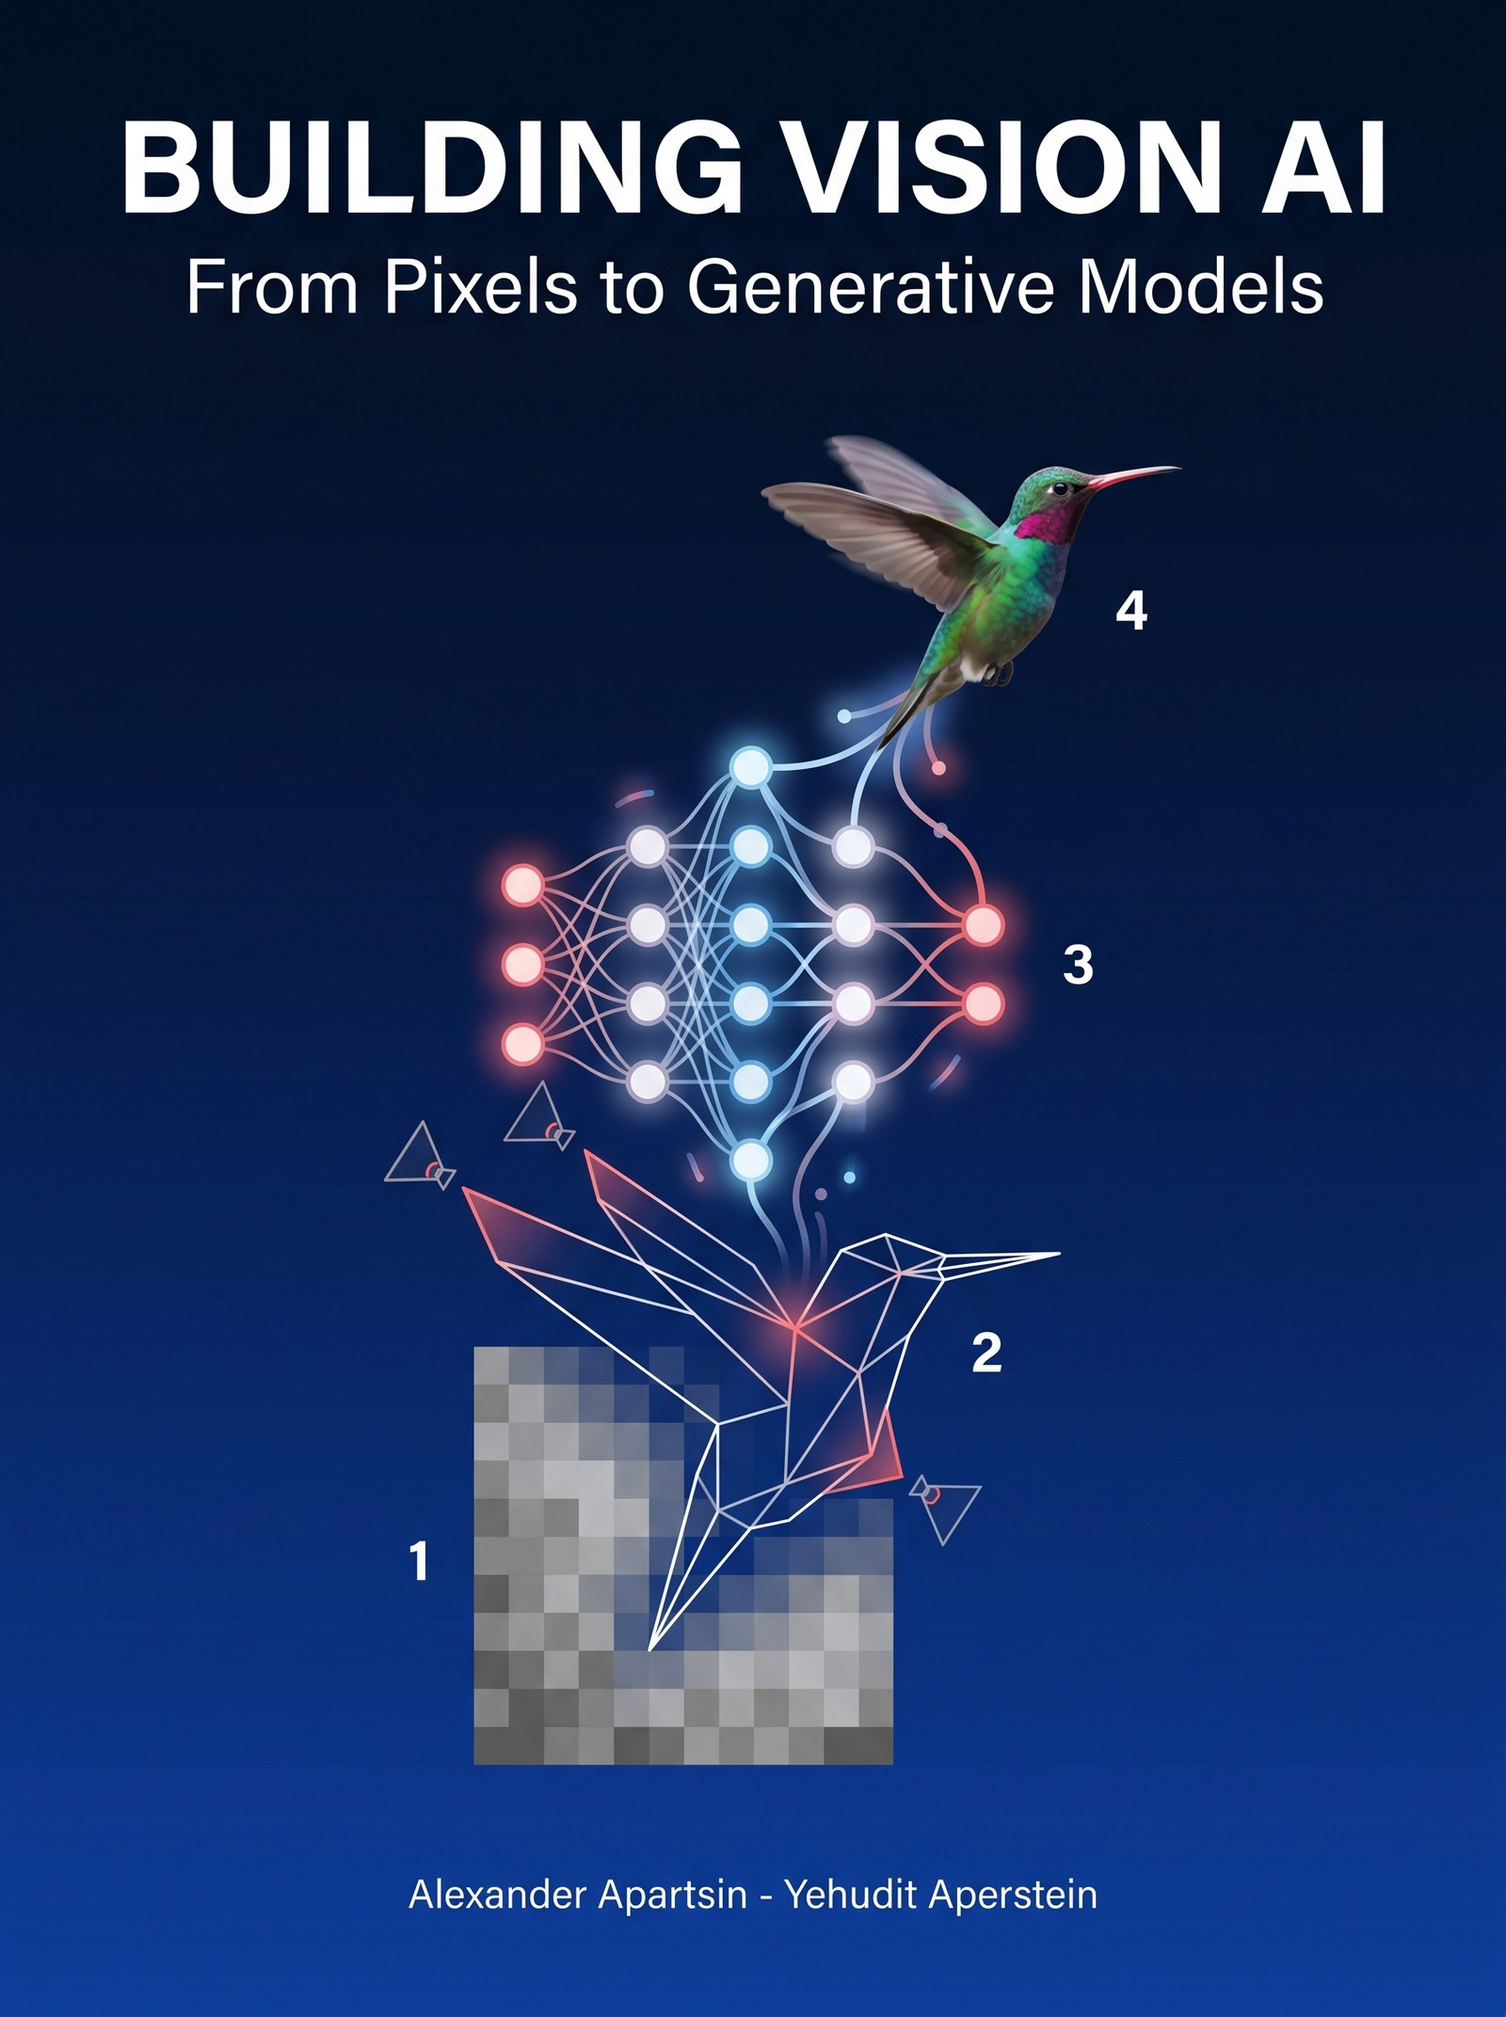
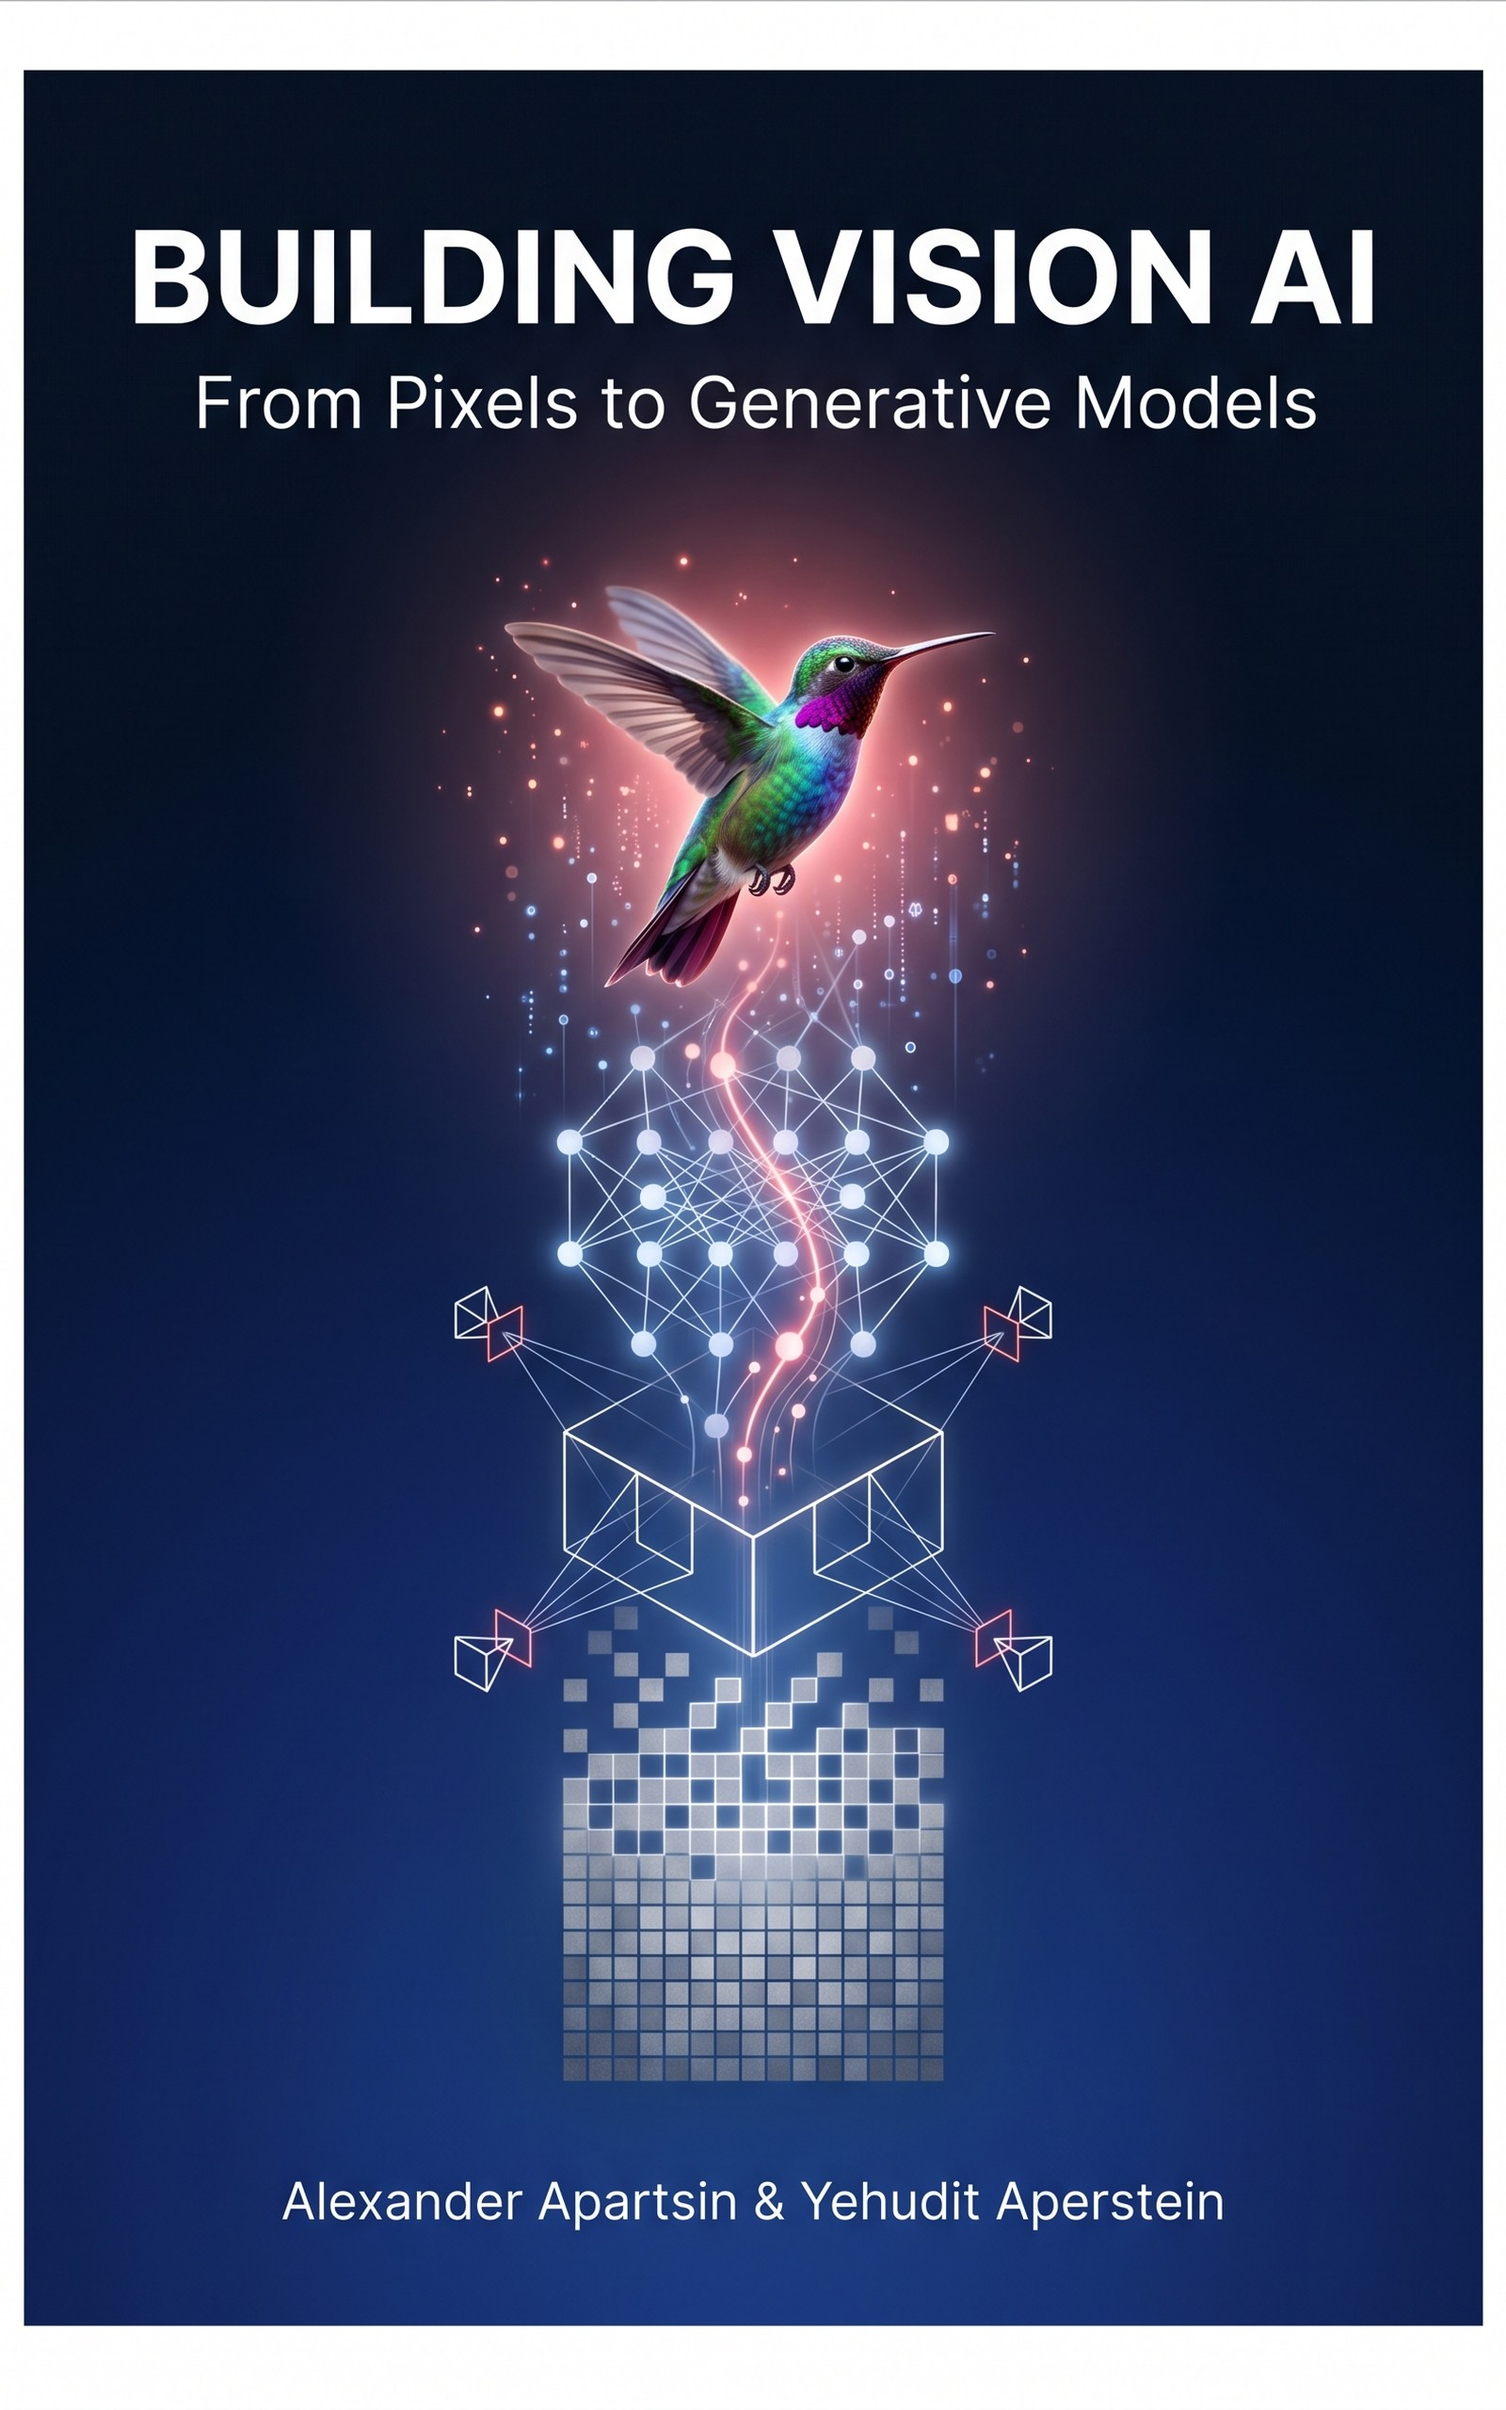
KDP cover: regenerate to ideal 1600x2560 (1.6:1, 300dpi); sync web cover
- cover_kdp.jpg now exactly 1600x2560 baseline RGB JPEG, KDP-ideal ratio/resolution
  (was 1600x2143 / 1.34:1). Same concept (pixels -> wireframe -> neural net ->
  hummingbird) regenerated at portrait book-cover ratio.
- Synced the site hero cover (images/book-cover.jpg) + og:image to match; updated
  cover img dimensions on the cover page and the cover spec in the KDP docs.
Canary clean.

diff --git a/index.html b/index.html
@@ -389,7 +389,7 @@ body.cover-page footer.cover-footer a:hover { color: #aedcf5; }
 
 <header class="hero">
 <span class="edition-pill">First Edition &#183; 2026</span>
-<div class="cover-image-wrapper"><img alt="Book cover: a pixel grid rising through wireframe geometry and a neural network into a photorealistic hummingbird, with the title Building Vision AI, From Pixels to Generative Models" class="cover-image" height="1200" src="images/book-cover.jpg" width="896"/></div>
+<div class="cover-image-wrapper"><img alt="Book cover: a pixel grid rising through wireframe geometry and a neural network into a photorealistic hummingbird, with the title Building Vision AI, From Pixels to Generative Models" class="cover-image" height="2560" src="images/book-cover.jpg" width="1600"/></div>
 <h1 class="cover-title">Building Vision AI
 <span class="title-arc">From Pixels to Generative Models</span></h1>
 <p class="cover-subtitle">A practitioner's guide to image processing, classical computer vision, deep learning, and generative vision models.</p>

diff --git a/KDP/KDP_SUBMISSION.md b/KDP/KDP_SUBMISSION.md
@@ -8,7 +8,7 @@ Structured metadata: `KDP/metadata/metadata.yaml`. Validated deliverables below.
 | File | What | Status |
 |---|---|---|
 | `KDP/output/building-vision-ai.epub` | Reflowable EPUB 3 manuscript (26.4 MB, 277 chapters, 244 illustrations, server-rendered KaTeX math) | **epubcheck 5.3.0: 0 fatals / 0 errors / 0 warnings** |
-| `KDP/cover/cover_kdp.jpg` | Ebook cover, 1600x2143 baseline JPEG | OK (see cover note) |
+| `KDP/cover/cover_kdp.jpg` | Ebook cover, 1600x2560 baseline JPEG | OK (see cover note) |
 
 Rebuild the EPUB any time: `HTML2EPUB_KATEX_OUTPUT=html python -m html2epub build .`
 Re-validate: run epubcheck 5.3.0 (Java) on the .epub.
@@ -53,10 +53,9 @@ Re-validate: run epubcheck 5.3.0 (Java) on the .epub.
 
 ## Cover note
 
-KDP's ideal ebook cover is 1.6:1 (height:width), i.e. 1600 x 2560 px. The current
-cover is 1600 x 2143 (1.34:1), which KDP accepts (minimum 1000 px on the shorter
-side, 72+ dpi). For the textbook-perfect ratio, regenerate the cover art at 1600 x
-2560 and re-export; not required for submission.
+`cover_kdp.jpg` is **1600 x 2560 px (1.6:1), baseline RGB JPEG, 300 dpi** — exactly
+KDP's ideal ebook cover spec (longest side 2560 >= the recommended 2500, well within
+the 1000-10000 px range, under 50 MB). No further cover work needed.
 
 ## Optional: KPF via epub2kpf (only if KDP's EPUB converter complains)
 
